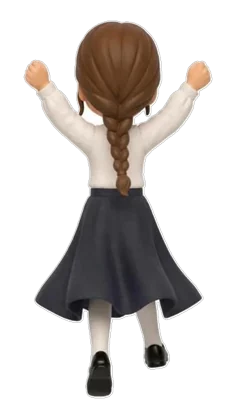
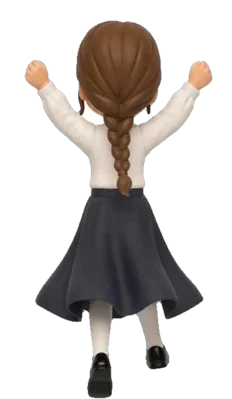
v126: no white rim around the side/back views
Claude-Session: https://claude.ai/code/session_01ABvEC9i7oWek9Z9TUcU2qQ

diff --git a/index.html b/index.html
@@ -1060,7 +1060,7 @@ let localStream=null, videoEnabled=false, micEnabled=true;
 const SB_URL='https://cdgqodtbdhsqkvcgcdlm.supabase.co';
 const SB_KEY='sb_publishable_B4HOCQF3IxN_6Ojz1_ctnA_k6JEAR4g';
 const FAM_COLORS=['#f5c842','#3d7aed','#34d399','#f87171','#c084fc','#fb923c','#22d3ee','#f472b6'];
-const APP_VERSION='v125';
+const APP_VERSION='v126';
 document.getElementById('appVersion').textContent=APP_VERSION;
 document.querySelectorAll('.copy-year').forEach(e=>e.textContent=new Date().getFullYear());
 

diff --git a/sw.js b/sw.js
@@ -10,7 +10,7 @@
  * When changing this file, bump CACHE so old caches are cleaned up.
  */
 
-const CACHE = 'dreidel-v125';
+const CACHE = 'dreidel-v126';
 const FALLBACK = './index.html';
 // Each picture is listed once, as .webp. The .png / .jpg twins exist only for a browser that cannot
 // show webp; precaching both made every install download the pictures twice (about 1.2 MB extra).
